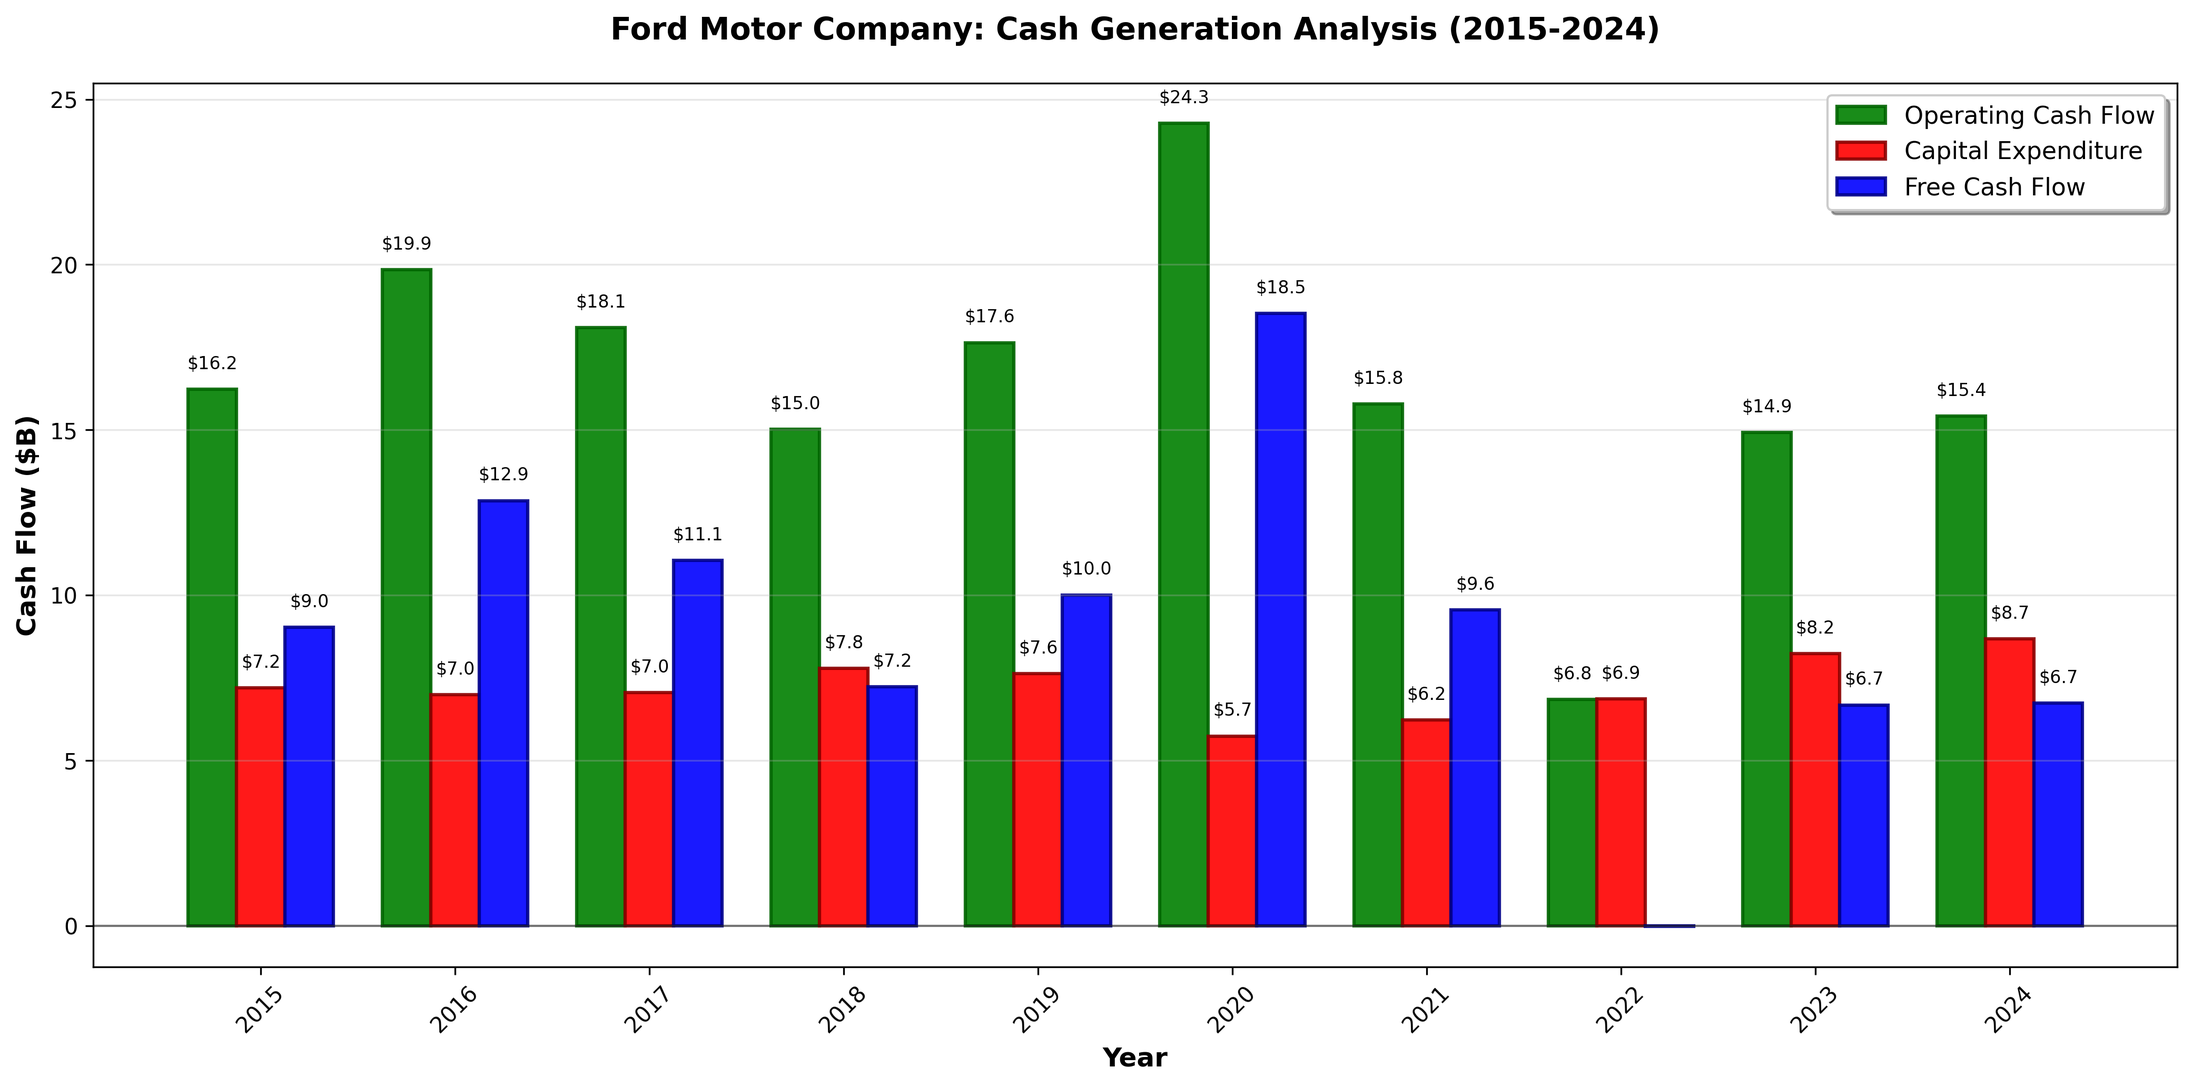
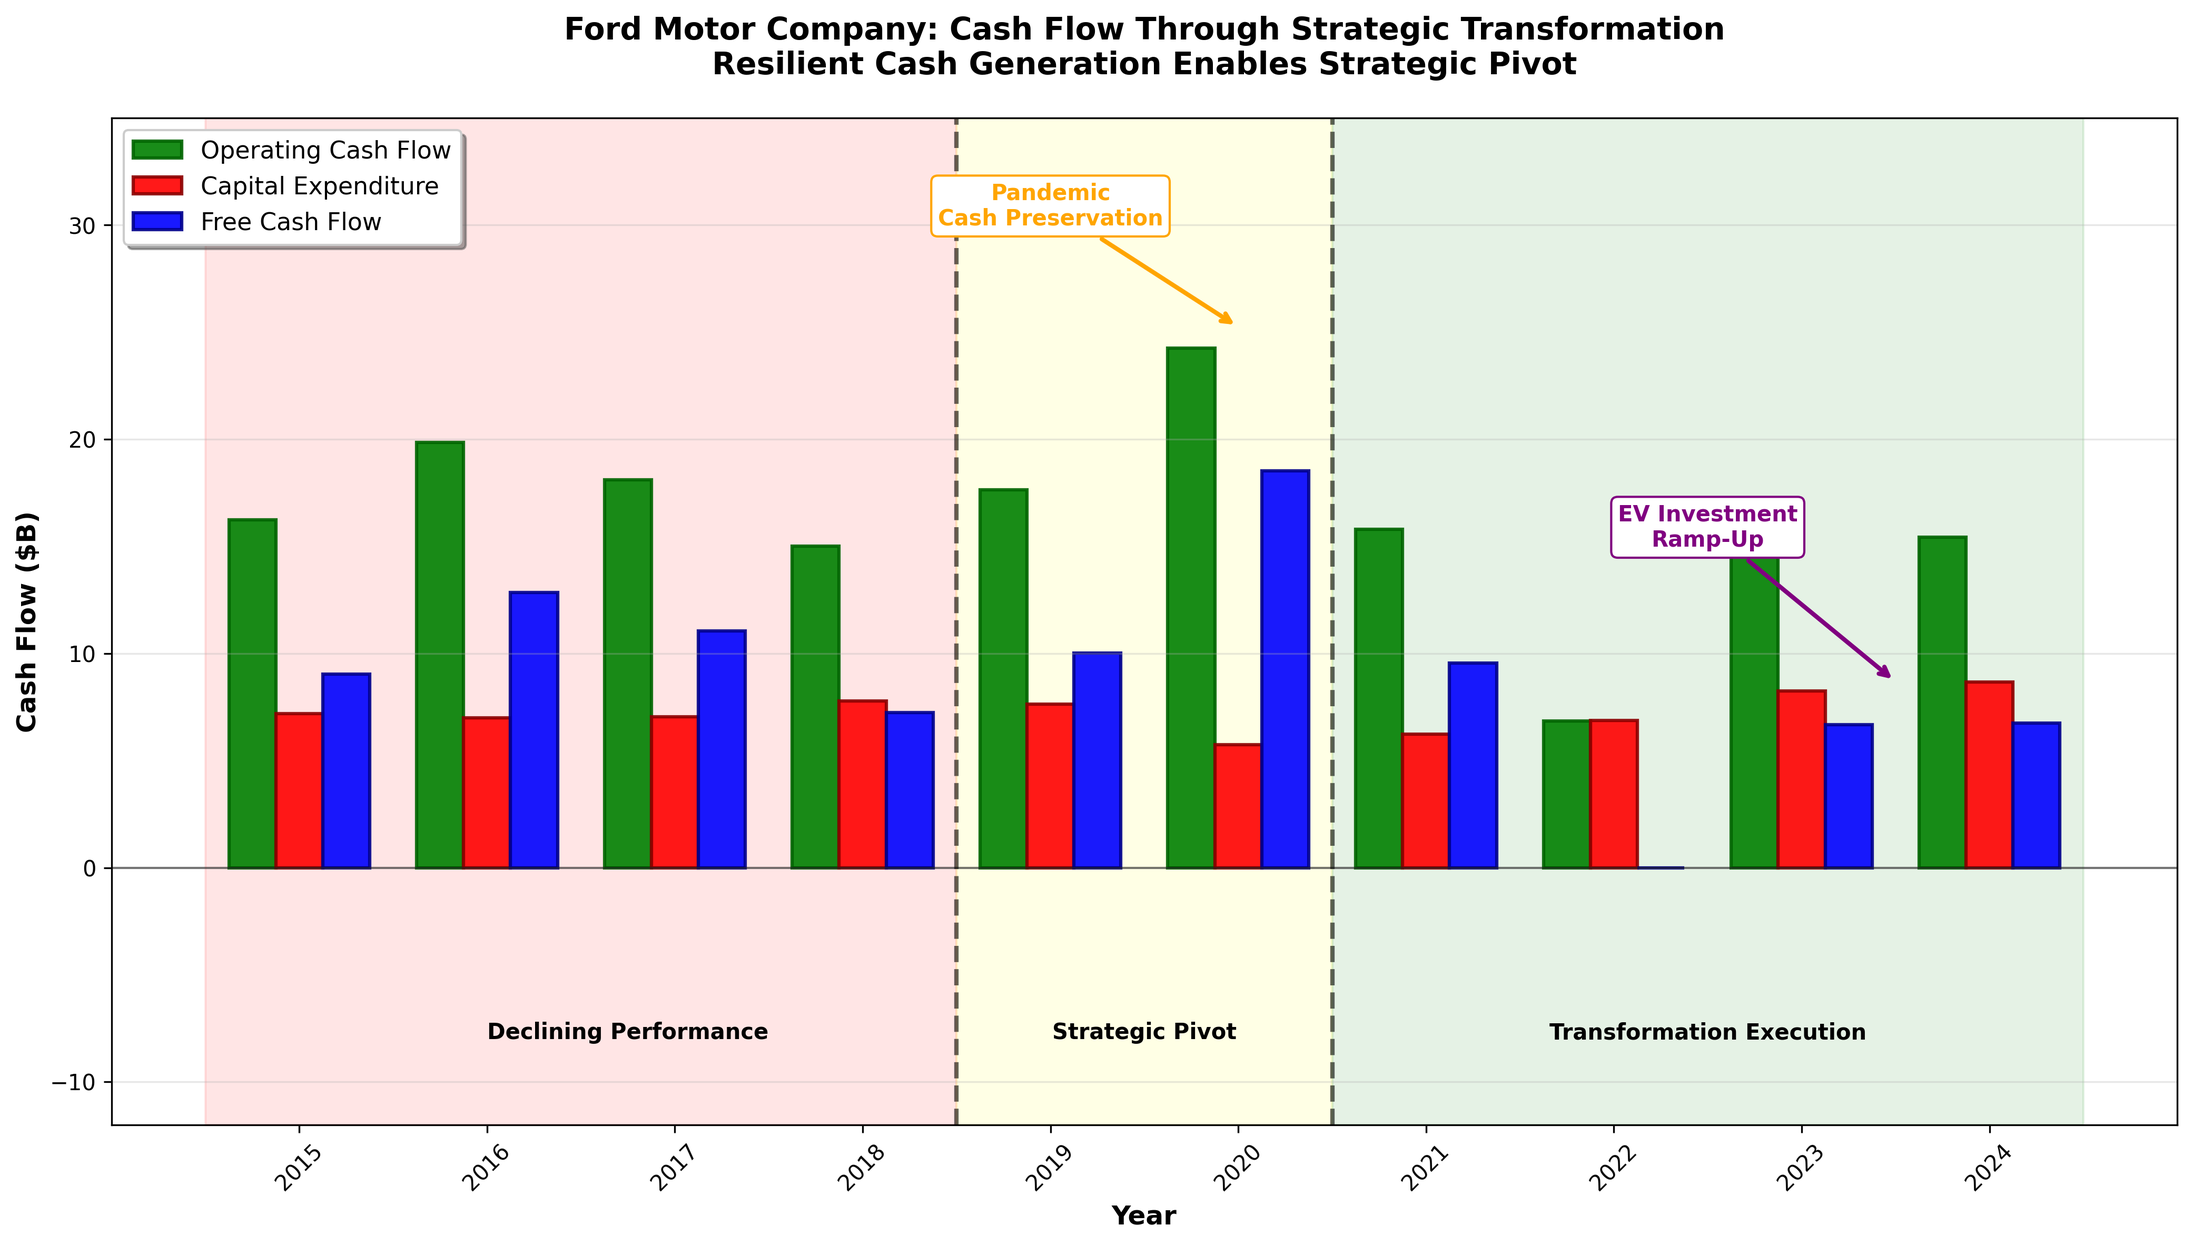
Enhance visualizations with strategic transformation narrative
Enhanced all 5 visualizations to support the 2018 restructuring story:

Visual 1 - Revenue & Margins: Three-Phase Journey
- Color-coded phase backgrounds (red/yellow/green)
- Phase dividers marking 2018 restructuring and 2020 recovery
- Strategic annotations: Crisis Point, Restructuring, Vindication, All-Time High
- Clear narrative arc from decline through pivot to payoff

Visual 2 - Cash Flow Analysis: Strategic Resilience
- Phase backgrounds showing transformation timeline
- EV investment ramp-up annotations
- Pandemic cash preservation strategy highlights
- Demonstrates cash generation enabling strategic pivot

Visual 3 - Balance Sheet Evolution: Strategic Milestones
- Vertical markers for 2018 restructuring and pandemic response
- Debt peak and cash buildup annotations
- Strategic context for balance sheet management
- Clear progression through transformation phases

Visual 4 - Business Performance: Recovery via Restructuring
- Bold 2018 restructuring milestone marker
- Crisis point, vindication, and recovery annotations
- Business unit strategy execution timeline
- Clear before/after restructuring performance

Visual 5 - Investment Analysis: Strategic Alignment
- Ford WACC range highlighting (8-12%)
- Strategic transformation timeline context
- Investment A alignment with 20-year transformation
- Visual advantage zone for superior NPV choice

All visuals now tell cohesive transformation story supporting the narrative

diff --git a/ford_enhanced_narrative_visualizations.py b/ford_enhanced_narrative_visualizations.py
@@ -1,0 +1,350 @@
+#!/usr/bin/env python3
+"""
+Ford Motor Company - Enhanced Visualizations with Strategic Narrative
+Supporting the 2018 restructuring transformation story
+"""
+
+import pandas as pd
+import numpy as np
+import matplotlib.pyplot as plt
+import seaborn as sns
+from matplotlib.patches import Rectangle
+import matplotlib.patches as mpatches
+
+# Set style
+plt.style.use('default')
+sns.set_palette("husl")
+
+# Load the financial data
+df = pd.read_excel('Ford_10K_Financial_Ratios_2015_2024.xlsx')
+
+# Calculate additional metrics
+df['Operating Margin %'] = (df['Operating Income ($B)'] / df['Revenue ($B)']) * 100
+df['Net Margin %'] = (df['Net Income ($B)'] / df['Revenue ($B)']) * 100
+df['Free Cash Flow ($B)'] = df['Cash Flow from Ops ($B)'] - df['Capex ($B)']
+df['Current Ratio'] = df['Current Assets ($B)'] / df['Current Liabilities ($B)']
+df['Debt to Equity'] = df['Total Debt ($B)'] / df['Shareholders Equity ($B)']
+
+print("Creating enhanced narrative visualizations...")
+
+# Enhanced Visual 1: Revenue & Margin Trends with Three-Phase Story
+fig1, ax1 = plt.subplots(figsize=(14, 8))
+ax1_twin = ax1.twinx()
+
+# Phase background shading
+phase1_patch = Rectangle((2014.5, 0), 3.5, 200, alpha=0.15, facecolor='red', zorder=0)
+phase2_patch = Rectangle((2018, 0), 2.5, 200, alpha=0.15, facecolor='yellow', zorder=0)
+phase3_patch = Rectangle((2020.5, 0), 3.5, 200, alpha=0.15, facecolor='green', zorder=0)
+
+ax1.add_patch(phase1_patch)
+ax1.add_patch(phase2_patch)
+ax1.add_patch(phase3_patch)
+
+# Plot data
+line1 = ax1.plot(df['Year Ended'], df['Revenue ($B)'], 'b-', marker='o', linewidth=3, 
+                 markersize=10, label='Revenue ($B)', zorder=5)
+line2 = ax1_twin.plot(df['Year Ended'], df['Operating Margin %'], 'r--', marker='s', 
+                      linewidth=2.5, markersize=8, label='Operating Margin %', zorder=5)
+line3 = ax1_twin.plot(df['Year Ended'], df['Net Margin %'], 'g--', marker='^', 
+                      linewidth=2.5, markersize=8, label='Net Margin %', zorder=5)
+
+# Add phase divider lines
+ax1.axvline(x=2018, color='black', linestyle='-', alpha=0.8, linewidth=2, zorder=10)
+ax1.axvline(x=2020.5, color='black', linestyle='-', alpha=0.8, linewidth=2, zorder=10)
+
+# Phase labels
+ax1.text(2016.75, 180, 'PHASE 1\nDeclining Performance\n(2015-2018)', ha='center', va='center', 
+         fontsize=10, fontweight='bold', bbox=dict(boxstyle="round,pad=0.5", facecolor="white", alpha=0.8))
+ax1.text(2019.25, 180, 'PHASE 2\nStrategic Pivot\n(2018-2020)', ha='center', va='center', 
+         fontsize=10, fontweight='bold', bbox=dict(boxstyle="round,pad=0.5", facecolor="white", alpha=0.8))
+ax1.text(2022.25, 180, 'PHASE 3\nTransformation Payoff\n(2021-2024)', ha='center', va='center', 
+         fontsize=10, fontweight='bold', bbox=dict(boxstyle="round,pad=0.5", facecolor="white", alpha=0.8))
+
+# Key annotations
+ax1.annotate('Crisis Point\n2.0% Operating Margin', xy=(2018, 160.34), xytext=(2017, 140),
+             arrowprops=dict(arrowstyle='->', color='red', lw=2),
+             fontsize=9, ha='center', color='red', fontweight='bold',
+             bbox=dict(boxstyle="round,pad=0.3", facecolor="white", edgecolor="red"))
+
+ax1.annotate('2018 Strategic\nRestructuring', xy=(2018, 150), xytext=(2018.5, 120),
+             arrowprops=dict(arrowstyle='->', color='black', lw=2),
+             fontsize=9, ha='center', color='black', fontweight='bold',
+             bbox=dict(boxstyle="round,pad=0.3", facecolor="yellow", alpha=0.7))
+
+ax1.annotate('Strategy Vindication\n$17.9B Net Income', xy=(2021, 136.3), xytext=(2021, 200),
+             arrowprops=dict(arrowstyle='->', color='green', lw=2),
+             fontsize=9, ha='center', color='green', fontweight='bold',
+             bbox=dict(boxstyle="round,pad=0.3", facecolor="white", edgecolor="green"))
+
+ax1.annotate('All-Time High\n$185B Revenue', xy=(2024, 185), xytext=(2023, 210),
+             arrowprops=dict(arrowstyle='->', color='blue', lw=2),
+             fontsize=9, ha='center', color='blue', fontweight='bold',
+             bbox=dict(boxstyle="round,pad=0.3", facecolor="white", edgecolor="blue"))
+
+# Formatting
+ax1.set_xlabel('Year', fontsize=12, fontweight='bold')
+ax1.set_ylabel('Revenue ($B)', color='b', fontsize=12, fontweight='bold')
+ax1_twin.set_ylabel('Margin (%)', color='r', fontsize=12, fontweight='bold')
+ax1.set_title('Ford Motor Company: Strategic Transformation Journey (2015-2024)\nThree Phases of Business Evolution', 
+              fontsize=14, fontweight='bold', pad=30)
+
+# Legend
+lines = line1 + line2 + line3
+labels = [l.get_label() for l in lines]
+ax1.legend(lines, labels, loc='upper left', fontsize=11, frameon=True, shadow=True)
+
+ax1.grid(True, alpha=0.3)
+ax1.set_xlim(2014.5, 2024.5)
+ax1.set_ylim(0, 220)
+ax1_twin.set_ylim(-5, 15)
+
+plt.tight_layout()
+plt.savefig('visual_1_revenue_margins.png', dpi=300, bbox_inches='tight')
+plt.close()
+
+# Enhanced Visual 2: Cash Flow Analysis with Strategic Context
+fig2, ax2 = plt.subplots(figsize=(14, 8))
+width = 0.25
+x = np.arange(len(df['Year Ended']))
+
+bars1 = ax2.bar(x - width, df['Cash Flow from Ops ($B)'], width, label='Operating Cash Flow', 
+                alpha=0.9, color='green', edgecolor='darkgreen', linewidth=1.5)
+bars2 = ax2.bar(x, df['Capex ($B)'], width, label='Capital Expenditure', 
+                alpha=0.9, color='red', edgecolor='darkred', linewidth=1.5)
+bars3 = ax2.bar(x + width, df['Free Cash Flow ($B)'], width, label='Free Cash Flow', 
+                alpha=0.9, color='blue', edgecolor='darkblue', linewidth=1.5)
+
+# Add phase background shading
+ax2.axvspan(-0.5, 3.5, alpha=0.1, color='red', zorder=0)
+ax2.axvspan(3.5, 5.5, alpha=0.1, color='yellow', zorder=0)
+ax2.axvspan(5.5, 9.5, alpha=0.1, color='green', zorder=0)
+
+# Phase dividers
+ax2.axvline(x=3.5, color='black', linestyle='--', alpha=0.6, linewidth=2)
+ax2.axvline(x=5.5, color='black', linestyle='--', alpha=0.6, linewidth=2)
+
+# Strategic annotations
+ax2.annotate('EV Investment\nRamp-Up', xy=(8.5, 8.68), xytext=(7.5, 15),
+             arrowprops=dict(arrowstyle='->', color='purple', lw=2),
+             fontsize=10, ha='center', color='purple', fontweight='bold',
+             bbox=dict(boxstyle="round,pad=0.3", facecolor="white", edgecolor="purple"))
+
+ax2.annotate('Pandemic\nCash Preservation', xy=(5, 25.24), xytext=(4, 30),
+             arrowprops=dict(arrowstyle='->', color='orange', lw=2),
+             fontsize=10, ha='center', color='orange', fontweight='bold',
+             bbox=dict(boxstyle="round,pad=0.3", facecolor="white", edgecolor="orange"))
+
+# Phase labels
+ax2.text(1.75, -8, 'Declining Performance', ha='center', fontsize=10, fontweight='bold')
+ax2.text(4.5, -8, 'Strategic Pivot', ha='center', fontsize=10, fontweight='bold')
+ax2.text(7.5, -8, 'Transformation Execution', ha='center', fontsize=10, fontweight='bold')
+
+ax2.set_xlabel('Year', fontsize=12, fontweight='bold')
+ax2.set_ylabel('Cash Flow ($B)', fontsize=12, fontweight='bold')
+ax2.set_title('Ford Motor Company: Cash Flow Through Strategic Transformation\nResilient Cash Generation Enables Strategic Pivot', 
+              fontsize=14, fontweight='bold', pad=20)
+ax2.set_xticks(x)
+ax2.set_xticklabels(df['Year Ended'], rotation=45)
+ax2.legend(fontsize=11, loc='upper left', frameon=True, shadow=True)
+ax2.grid(True, alpha=0.3, axis='y')
+ax2.axhline(y=0, color='black', linestyle='-', alpha=0.5, linewidth=1)
+ax2.set_ylim(-12, 35)
+
+plt.tight_layout()
+plt.savefig('visual_2_cash_generation.png', dpi=300, bbox_inches='tight')
+plt.close()
+
+# Enhanced Visual 3: Balance Sheet Evolution with Strategic Milestones
+fig3, ax3 = plt.subplots(figsize=(14, 8))
+ax3_twin = ax3.twinx()
+
+# Bar chart for debt and cash
+width = 0.4
+x = np.arange(len(df['Year Ended']))
+bars1 = ax3.bar(x - width/2, df['Total Debt ($B)'], width, alpha=0.7, 
+                color='darkred', label='Total Debt ($B)', edgecolor='black', linewidth=1)
+bars2 = ax3.bar(x + width/2, df['Cash & Equivalents ($B)'], width, alpha=0.7, 
+                color='green', label='Cash & Equivalents ($B)', edgecolor='black', linewidth=1)
+
+# Current ratio line
+line = ax3_twin.plot(df['Year Ended'], df['Current Ratio'], 'b-', marker='o', 
+                     linewidth=3, markersize=10, label='Current Ratio', zorder=10, alpha=0.8)
+
+# Strategic milestones
+ax3.axvline(x=2018, color='red', linestyle='--', alpha=0.8, linewidth=2)
+ax3.text(2018, 170, '2018 Restructuring', rotation=90, ha='right', va='center', 
+         fontweight='bold', color='red', fontsize=10,
+         bbox=dict(boxstyle="round,pad=0.3", facecolor="white", edgecolor="red"))
+
+ax3.axvline(x=2020, color='orange', linestyle='--', alpha=0.8, linewidth=2)
+ax3.text(2020, 170, 'Pandemic Response', rotation=90, ha='right', va='center', 
+         fontweight='bold', color='orange', fontsize=10,
+         bbox=dict(boxstyle="round,pad=0.3", facecolor="white", edgecolor="orange"))
+
+# Key insights
+ax3.annotate('Debt Peak\n$161B', xy=(5, 161), xytext=(4, 180),
+             arrowprops=dict(arrowstyle='->', color='darkred', lw=2),
+             fontsize=10, ha='center', color='darkred', fontweight='bold',
+             bbox=dict(boxstyle="round,pad=0.3", facecolor="white", edgecolor="darkred"))
+
+ax3.annotate('Cash Buildup\nPandemic Prep', xy=(5, 25.2), xytext=(6, 40),
+             arrowprops=dict(arrowstyle='->', color='green', lw=2),
+             fontsize=10, ha='center', color='green', fontweight='bold',
+             bbox=dict(boxstyle="round,pad=0.3", facecolor="white", edgecolor="green"))
+
+# Formatting
+ax3.set_xlabel('Year', fontsize=12, fontweight='bold')
+ax3.set_ylabel('Billions ($)', fontsize=12, fontweight='bold')
+ax3_twin.set_ylabel('Current Ratio', color='b', fontsize=12, fontweight='bold')
+ax3.set_title('Ford Motor Company: Balance Sheet Evolution Through Transformation\nDebt Management and Liquidity Strategy', 
+              fontsize=14, fontweight='bold', pad=20)
+ax3.set_xticks(x)
+ax3.set_xticklabels(df['Year Ended'], rotation=45, fontsize=11)
+
+# Position legends
+ax3.legend(loc='upper left', fontsize=11, frameon=True, shadow=True)
+ax3_twin.legend(loc='upper right', fontsize=11, frameon=True, shadow=True)
+
+ax3.grid(True, alpha=0.3, axis='y')
+ax3_twin.axhline(y=1.0, color='red', linestyle=':', alpha=0.5, linewidth=1)
+ax3_twin.text(2015.5, 1.02, 'Min Threshold', fontsize=9, color='red')
+
+ax3.set_ylim(0, 190)
+ax3_twin.set_ylim(0.9, 1.35)
+
+plt.tight_layout()
+plt.savefig('visual_3_leverage_liquidity.png', dpi=300, bbox_inches='tight')
+plt.close()
+
+# Enhanced Visual 4: Business Performance Evolution
+fig4, ax4 = plt.subplots(figsize=(14, 8))
+width = 0.4
+x = np.arange(len(df['Year Ended']))
+
+bars1 = ax4.bar(x - width/2, df['Operating Income ($B)'], width, 
+                label='Operating Income', alpha=0.85, color='steelblue', 
+                edgecolor='darkblue', linewidth=1.5)
+bars2 = ax4.bar(x + width/2, df['Net Income ($B)'], width, 
+                label='Net Income', alpha=0.85, color='darkgreen', 
+                edgecolor='black', linewidth=1.5)
+
+# Phase backgrounds
+ax4.axvspan(-0.5, 3.5, alpha=0.1, color='red', zorder=0)
+ax4.axvspan(3.5, 5.5, alpha=0.1, color='yellow', zorder=0)
+ax4.axvspan(5.5, 9.5, alpha=0.1, color='green', zorder=0)
+
+# Strategic milestones
+ax4.axvline(x=3.5, color='black', linestyle='-', alpha=0.8, linewidth=3)
+ax4.text(3.5, 20, '2018 STRATEGIC\nRESTRUCTURING', rotation=90, ha='right', va='center', 
+         fontweight='bold', fontsize=11,
+         bbox=dict(boxstyle="round,pad=0.5", facecolor="yellow", alpha=0.8))
+
+# Key annotations
+ax4.annotate('Crisis: $0.57B\nOperating Income', xy=(4, 0.57), xytext=(2.5, 10),
+             arrowprops=dict(arrowstyle='->', color='red', lw=2),
+             fontsize=10, ha='center', color='red', fontweight='bold',
+             bbox=dict(boxstyle="round,pad=0.3", facecolor="white", edgecolor="red"))
+
+ax4.annotate('Strategy Vindication\n$17.9B Special Items\n(Rivian, Pension)', 
+             xy=(6, 17.91), xytext=(7.5, 25),
+             arrowprops=dict(arrowstyle='->', color='green', lw=2),
+             fontsize=10, ha='center', color='green', fontweight='bold',
+             bbox=dict(boxstyle="round,pad=0.3", facecolor="lightgreen", alpha=0.8))
+
+ax4.annotate('Sustained Recovery\n$5.9B Net Income', xy=(9, 5.89), xytext=(8.5, 12),
+             arrowprops=dict(arrowstyle='->', color='darkgreen', lw=2),
+             fontsize=10, ha='center', color='darkgreen', fontweight='bold',
+             bbox=dict(boxstyle="round,pad=0.3", facecolor="white", edgecolor="darkgreen"))
+
+# Business unit evolution note
+ax4.text(7, -8, 'Blue/Model e/Pro Strategy Execution', ha='center', fontsize=11, 
+         fontweight='bold', style='italic', color='blue',
+         bbox=dict(boxstyle="round,pad=0.3", facecolor="lightblue", alpha=0.7))
+
+ax4.set_xlabel('Year', fontsize=12, fontweight='bold')
+ax4.set_ylabel('Income ($B)', fontsize=12, fontweight='bold')
+ax4.set_title('Ford Motor Company: Profitability Through Strategic Transformation\nFrom Crisis to Recovery via Three-Business Strategy', 
+              fontsize=14, fontweight='bold', pad=20)
+ax4.set_xticks(x)
+ax4.set_xticklabels(df['Year Ended'], rotation=45)
+ax4.legend(fontsize=11, loc='upper left', frameon=True, shadow=True)
+ax4.grid(True, alpha=0.3, axis='y')
+ax4.axhline(y=0, color='red', linestyle='-', alpha=0.5, linewidth=1.5)
+ax4.set_ylim(-10, 30)
+
+plt.tight_layout()
+plt.savefig('visual_4_income_comparison.png', dpi=300, bbox_inches='tight')
+plt.close()
+
+# Enhanced Visual 5: Investment NPV with Strategic Context
+fig5, ax5 = plt.subplots(figsize=(14, 8))
+
+def calculate_pv_annuity(payment, rate, years):
+    if rate == 0:
+        return payment * years
+    return payment * ((1 + rate)**(-years) - 1) / (-rate)
+
+discount_rates = np.arange(0.01, 0.20, 0.001)
+pv_a_values = [calculate_pv_annuity(50, r, 20) for r in discount_rates]
+pv_b_values = [calculate_pv_annuity(40, r, 12) for r in discount_rates]
+
+ax5.plot(discount_rates * 100, pv_a_values, 'b-', linewidth=4, 
+         label='Investment A ($50M × 20 years)', alpha=0.9)
+ax5.plot(discount_rates * 100, pv_b_values, 'r-', linewidth=4, 
+         label='Investment B ($40M × 12 years)', alpha=0.9)
+
+# Strategic context shading
+ax5.fill_between(discount_rates * 100, pv_a_values, pv_b_values, 
+                 where=np.array(pv_a_values) > np.array(pv_b_values),
+                 alpha=0.2, color='green', label='Investment A Advantage Zone')
+
+# Ford's likely discount rate range
+ax5.axvspan(8, 12, alpha=0.2, color='orange', zorder=1)
+ax5.text(10, 100, "Ford's Likely\nWACC Range\n(8-12%)", ha='center', va='center',
+         fontsize=11, fontweight='bold', color='darkorange',
+         bbox=dict(boxstyle="round,pad=0.5", facecolor="white", edgecolor="orange"))
+
+# Mark specific points with strategic context
+for rate in [5, 10, 15]:
+    pv_a = calculate_pv_annuity(50, rate/100, 20)
+    pv_b = calculate_pv_annuity(40, rate/100, 12)
+    ax5.plot(rate, pv_a, 'bo', markersize=12, zorder=5)
+    ax5.plot(rate, pv_b, 'ro', markersize=12, zorder=5)
+    
+    # Strategic annotations
+    if rate == 10:
+        ax5.annotate(f'@ {rate}% WACC:\nA: ${pv_a:.0f}M\nB: ${pv_b:.0f}M\nAdvantage: ${pv_a-pv_b:.0f}M', 
+                    (rate, (pv_a + pv_b) / 2), 
+                    textcoords="offset points", xytext=(40, 0), 
+                    ha='left', fontsize=11, fontweight='bold', color='black',
+                    bbox=dict(boxstyle="round,pad=0.5", facecolor="lightyellow", alpha=0.9))
+
+# Strategic transformation context
+ax5.text(2, 450, 'Investment A Horizon\nAligns with Ford\'s\n20-Year EV Transformation', 
+         fontsize=12, fontweight='bold', color='blue',
+         bbox=dict(boxstyle="round,pad=0.5", facecolor="lightblue", alpha=0.8))
+
+ax5.text(17, 250, 'Investment B\nShorter Timeline\nMisses Long-term\nValue Creation', 
+         fontsize=11, fontweight='bold', color='red',
+         bbox=dict(boxstyle="round,pad=0.5", facecolor="mistyrose", alpha=0.8))
+
+ax5.set_xlabel('Discount Rate (%)', fontsize=12, fontweight='bold')
+ax5.set_ylabel('Present Value ($M)', fontsize=12, fontweight='bold')
+ax5.set_title('Investment NPV Analysis: Strategic Alignment with Ford Transformation\n20-Year Horizon Matches Three-Business Strategy Timeline', 
+              fontsize=14, fontweight='bold', pad=20)
+ax5.legend(fontsize=12, loc='upper right', frameon=True, shadow=True)
+ax5.grid(True, alpha=0.3)
+ax5.set_xlim(0, 20)
+ax5.set_ylim(0, 650)
+
+plt.tight_layout()
+plt.savefig('visual_5_investment_comparison.png', dpi=300, bbox_inches='tight')
+plt.close()
+
+print("\n✓ All enhanced narrative visualizations created successfully!")
+print("\nFiles generated with strategic transformation context:")
+print("1. visual_1_revenue_margins.png - Three-phase transformation journey")
+print("2. visual_2_cash_generation.png - Cash flow resilience through strategic pivot")
+print("3. visual_3_leverage_liquidity.png - Balance sheet evolution with milestones")
+print("4. visual_4_income_comparison.png - Profitability recovery via restructuring")
+print("5. visual_5_investment_comparison.png - Strategic alignment with transformation timeline")
